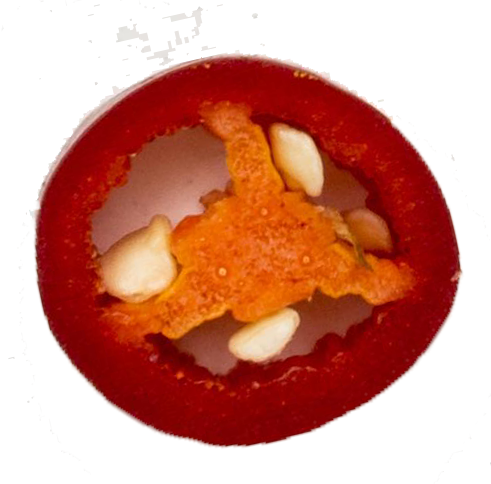
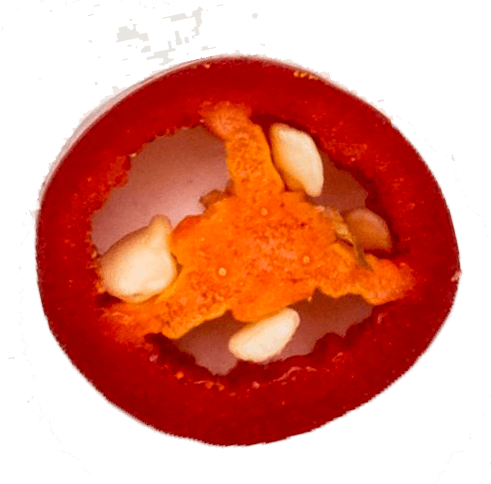
fixed: changed the img files, reduced size as it was taking long time to load

Changed region(s): [[0.0611, 0.093, 0.947, 0.8988], [0.8554, 0.6508, 0.9165, 0.6818]]

diff --git a/src/components/PopularFood/PopularFood.jsx b/src/components/PopularFood/PopularFood.jsx
@@ -32,7 +32,7 @@ const PopularFood = () => {
   // duplicate the food items
   const duplicatedFoods = [...foods, ...foods];
   return (
-    <div className="bg-[#FBF7F2] lg:h-[70vh] py-8 lg:py-30 relative overflow-hidden">
+    <div className="bg-[#FBF7F2] py-8 lg:py-30 relative overflow-hidden">
       {/* background img in lg device */}
       <img
         src={bgimage1}

diff --git a/src/components/AboutUs/ServiceOverview.jsx b/src/components/AboutUs/ServiceOverview.jsx
@@ -22,7 +22,7 @@ const services = [
 
 const ServiceOverview = () => {
   return (
-    <div className="py-12">
+    <div className="py-[50px] lg:py-[74px]">
       <div className="flex flex-col lg:flex-row gap-8">
         {/* each service overview */}
         {services.map((service, index) => (
